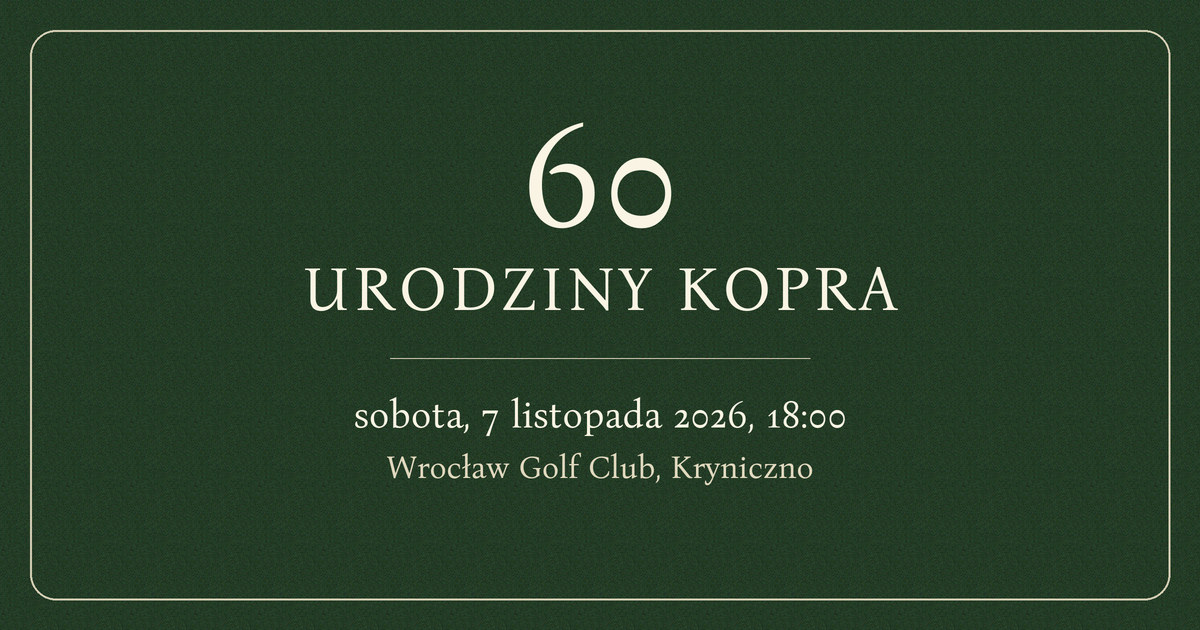
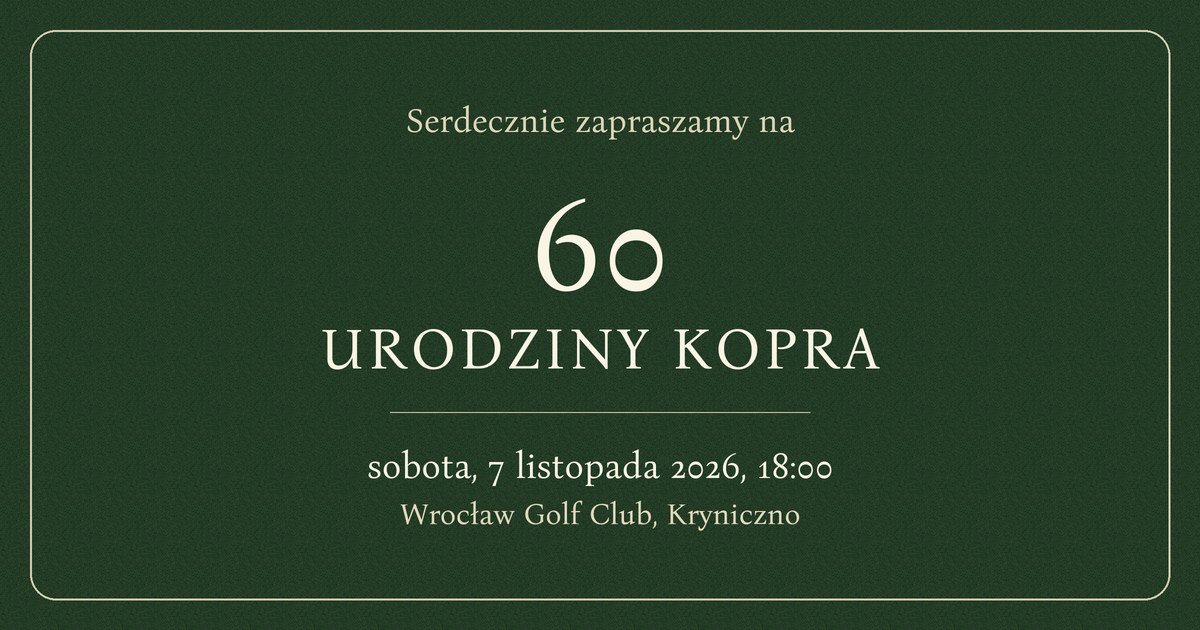
feat(60kopra): zaproszenie na miniaturze linku
"Serdecznie zapraszamy na" jako wstęp nad "60 URODZINY KOPRA" — czyta się
jako jedno zdanie, zamiast powtarzać nazwę drugi raz. Blok tekstu zjechał
niżej, bo z dodatkową linią kompozycja robiła się przyciężka u góry.

diff --git a/60kopra/scripts/make-share-images.py b/60kopra/scripts/make-share-images.py
@@ -164,23 +164,29 @@ def make_og(path, W=1200, H=630):
     d.rounded_rectangle([pad, pad, w - pad, h - pad],
                         radius=26 * SS, outline=mix(BODY, BG, 0.85), width=2 * SS)
 
-    f_big   = font('BonaNovaSC-Regular.ttf', 150 * SS)
-    f_word  = font('BonaNovaSC-Regular.ttf', 62 * SS)
-    f_date  = font('BonaNova-Regular.ttf', 38 * SS)
-    f_venue = font('BonaNova-Regular.ttf', 32 * SS)
+    f_lead  = font('BonaNova-Regular.ttf', 34 * SS)
+    f_big   = font('BonaNovaSC-Regular.ttf', 132 * SS)
+    f_word  = font('BonaNovaSC-Regular.ttf', 58 * SS)
+    f_date  = font('BonaNova-Regular.ttf', 36 * SS)
+    f_venue = font('BonaNova-Regular.ttf', 30 * SS)
 
-    y = 86 * SS
+    # Zaproszenie czyta się dalej jako jedno zdanie: „Serdecznie zapraszamy na
+    # 60 URODZINY KOPRA" — dlatego wstęp, a nie osobna, powtórzona nazwa.
+    y = 100 * SS
+    draw_centered(d, cx, y, 'Serdecznie zapraszamy na', f_lead, mix(BODY, BG, 0.9))
+    y += 66 * SS
+
     draw_centered(d, cx, y, '60', f_big, DISPLAY)
-    y += 166 * SS
+    y += 148 * SS
     draw_centered(d, cx, y, 'URODZINY KOPRA', f_word, DISPLAY, tracking=3 * SS)
-    y += 106 * SS
+    y += 98 * SS
 
     rule_w = 420 * SS
     d.line([cx - rule_w / 2, y, cx + rule_w / 2, y], fill=mix(BODY, BG, 0.8), width=2)
-    y += 34 * SS
+    y += 32 * SS
 
     draw_centered(d, cx, y, 'sobota, 7 listopada 2026, 18:00', f_date, DISPLAY)
-    y += 56 * SS
+    y += 52 * SS
     draw_centered(d, cx, y, 'Wrocław Golf Club, Kryniczno', f_venue, mix(BODY, BG, 0.92))
 
     out = im.resize((W, H), Image.LANCZOS)
